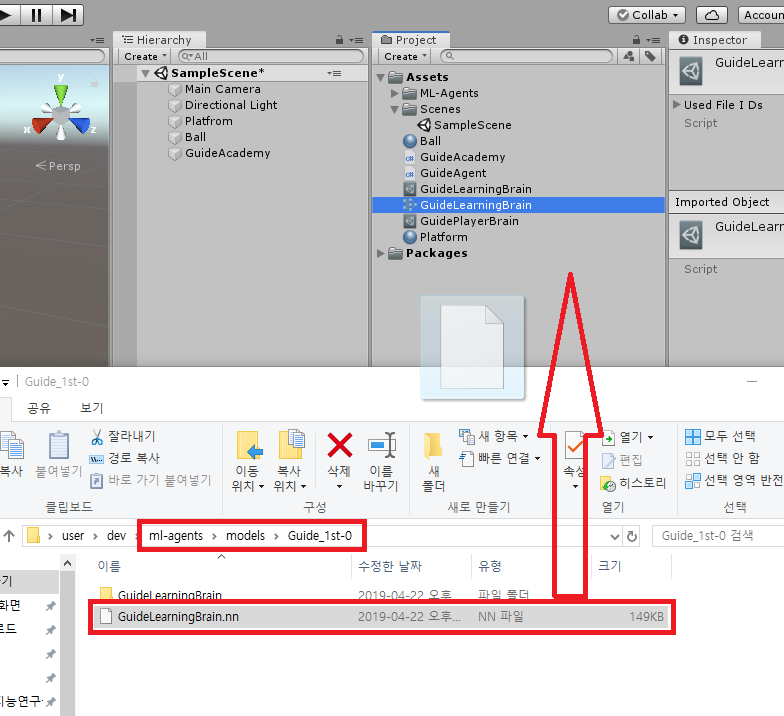
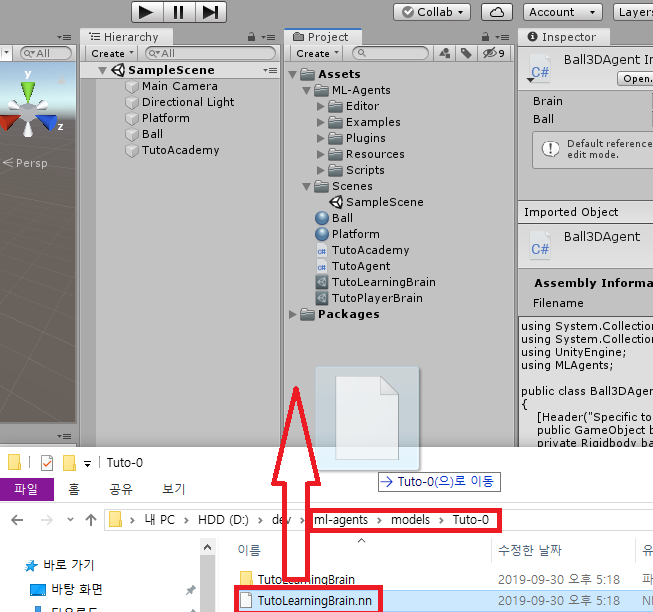
update chap.09

diff --git a/unity_ml_agents_tutorial/9.change_internal_mode/README.md b/unity_ml_agents_tutorial/9.change_internal_mode/README.md
@@ -5,21 +5,21 @@
 
 ml-agents/models/[Project Name]
 
-ex. ml-agents/models/Guide_1st
+ex. ml-agents/models/Tuto-0
 
 ![Alt text](/unity_ml_agents_tutorial/9.change_internal_mode/1.find_nn_file.png)
 - - -
 
-## 9-2. GuideLearningBrain에 nn파일을 import 합니다.
+## 9-2. TutoLearningBrain에 nn파일을 import 합니다.
 
-Project의 GuideLearningBrain 클릭 -> Inspector 창의 Model에 nn파일을 드래그하여 import 합니다.  
+Project의 TutoLearningBrain 클릭 -> Inspector 창의 Model에 nn파일을 드래그하여 import 합니다.  
 
 Inference Device는 각자 맞는 장치로 설정합니다.(본 가이드에서는 GPU환경에서 실행하였습니다.)
 
 ![Alt text](/unity_ml_agents_tutorial/9.change_internal_mode/4.import_nn_file.png)
 - - -
 
-## 9-3. GuideAcademy의 Brain Control 체크를 해제해줍니다.
+## 9-3. TutoAcademy의 Brain Control 체크를 해제해줍니다.
 
 ![Alt text](/unity_ml_agents_tutorial/9.change_internal_mode/5.noncontrol.png)
 - - -
